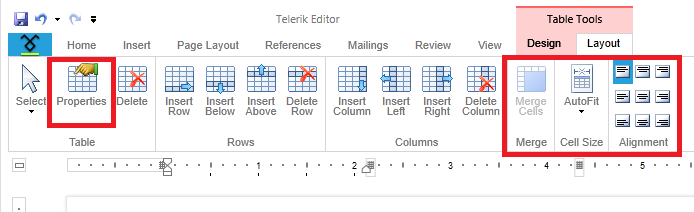
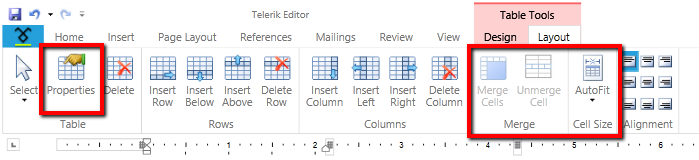
Add Unmerge functionality in Table article for RichTextBox

diff --git a/controls/radrichtextbox/document-elements/features-tables.md b/controls/radrichtextbox/document-elements/features-tables.md
@@ -142,36 +142,36 @@ Here is a snapshot of the result.
 The __RadRichTextBox__ exposes the following methods that regard the creation or deletion of a table:
         
 
-* __DeleteTable__ - deletes the currently selected table.
+* __DeleteTable__: Deletes the currently selected table.
             
 
-* __DeleteTableColumn__ - deletes the currently selected column.
+* __DeleteTableColumn__: Deletes the currently selected column.
             
 
-* __DeleteTableRow__ - deletes the currently selected row.
+* __DeleteTableRow__: Deletes the currently selected row.
             
 
-* __InsertTable__ - inserts a table. Allows you to specify the number of rows and columns. Has an overload that allows you to specify if a Paragraph should be inserted before the table.
+* __InsertTable__: Inserts a table. Allows you to specify the number of rows and columns. Has an overload that allows you to specify if a Paragraph should be inserted before the table.
             
         
 >important In versions earlier than Q1 2015 before and after each Table element is inserted a Paragraph. When the Table is inserted via the UI or the InsertTable() method this is done automatically, otherwise paragraphs should be inserted manually. In next versions the Paragraph before the Table is not mandatory.
 
-* __InsertTableColumn__- inserts a column at the end.
+* __InsertTableColumn__: Inserts a column at the end.
             
 
-* __InsertTableColumnToTheLeft__ - inserts a column to the left of the selected one.
+* __InsertTableColumnToTheLeft__: Inserts a column to the left of the selected one.
             
 
-* __InsertTableColumnToTheRight__ - inserts a column to the right of the selected one.
+* __InsertTableColumnToTheRight__: Inserts a column to the right of the selected one.
             
 
-* __InsertTableRow__ - inserts a row at the end.
+* __InsertTableRow__: Inserts a row at the end.
             
 
-* __InsertTableRowAbove__ - inserts a row above the selected one.
+* __InsertTableRowAbove__: Inserts a row above the selected one.
             
 
-* __InsertTableRowBelow__ - inserts a row below the selected one.
+* __InsertTableRowBelow__: Inserts a row below the selected one.
             
 
 ## Creating a Table via the Built-in UI
@@ -202,29 +202,32 @@ A table could be deleted or modified via the Table Tools’ contextual tab __Lay
 The __RadRichTextBox__ exposes a rich API, which allows you to use various methods to add, modify or delete elements form the __RadDocument__. The methods exposed by the API can be wired to a UI and get executed upon user interaction with this UI. The __RadRichTextBox__ exposes the following methods that regard the modifying of a table:
         
 
-* __ChangeTableBorders__ - modifies the borders of the currently selected table via a __TableBorders__ object.
+* __ChangeTableBorders__: Modifies the borders of the currently selected table via a __TableBorders__ object.
             
 
-* __ChangeTableCellBackground__ - sets the color of the currently selected cell's borders.
+* __ChangeTableCellBackground__: Sets the color of the currently selected cell's borders.
             
 
-* __ChangeTableCellBorders__ - modifies the borders of the currently selected table via a __TableCellBorders__ object.
+* __ChangeTableCellBorders__: Modifies the borders of the currently selected table via a __TableCellBorders__ object.
             
 
-* __ChangeTableCellContentAlignment__ - modifies the content alignment of the currently selected cell.
+* __ChangeTableCellContentAlignment__: Modifies the content alignment of the currently selected cell.
             
 
-* __ChangeTableCellPadding__ - modifies the padding of the currently selected cell.
+* __ChangeTableCellPadding__: Modifies the padding of the currently selected cell.
             
 
-* __ChangeTableColumnsLayoutMode__ - modifies the layout mode of the table's columns.
+* __ChangeTableColumnsLayoutMode__: Modifies the layout mode of the table's columns.
             
 
-* __ChangeTableGridColumnWidth__ - modifies the width of the column.
+* __ChangeTableGridColumnWidth__: Modifies the width of the column.
             
 
-* __MergeTableCells__ - merges the currently selected cells.
+* __MergeTableCells__: Merges the currently selected cells.
+
             
+* __UnmergeTableCells__: Splits the currently selected table cell.
+
 
 ## Formatting a Table via the Built-in UI
 
